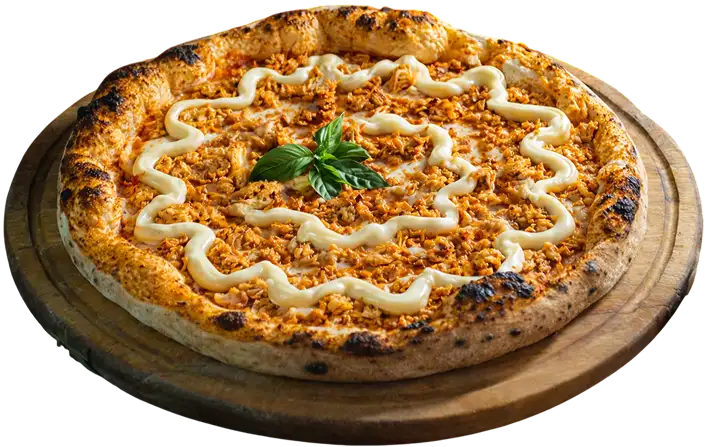
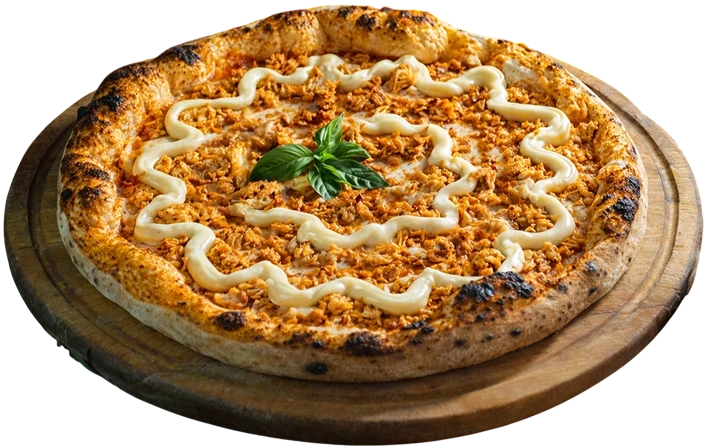
.

diff --git a/index.html b/index.html
@@ -29,8 +29,8 @@
     <link rel="preload" as="style" href="https://fonts.googleapis.com/css2?family=Damion&family=Poppins:wght@400;500;600&display=swap">
     <link rel="stylesheet" href="https://fonts.googleapis.com/css2?family=Damion&family=Poppins:wght@400;500;600&display=swap" media="print" onload="this.media='all'">
     <noscript><link rel="stylesheet" href="https://fonts.googleapis.com/css2?family=Damion&family=Poppins:wght@400;500;600&display=swap"></noscript>
-    <link rel="preload" as="image" href="assets/img/pizza-calabresa-mob.webp" media="(max-width: 768px)" fetchpriority="high">
-    <link rel="preload" as="image" href="assets/img/pizza-calabresa.webp" media="(min-width: 769px)" fetchpriority="high">
+    <link rel="preload" as="image" href="assets/img/pizza-calabresa-mob.webp?v=15" media="(max-width: 768px)" fetchpriority="high">
+    <link rel="preload" as="image" href="assets/img/pizza-calabresa.webp?v=15" media="(min-width: 769px)" fetchpriority="high">
 
     <style>
         #global-loader{position:fixed;top:0;left:0;width:100vw;height:100vh;background-color:#FAF8F5;z-index:999999;display:flex;justify-content:center;align-items:center;transition:opacity .35s ease;overflow:hidden}
@@ -140,8 +140,8 @@
                 <!-- Center Column (Absolute) -->
                 <div class="hero-center">
                     <picture>
-                        <source media="(max-width: 768px)" srcset="assets/img/pizza-calabresa-mob.webp">
-                        <img class="pizza-main-img" src="assets/img/pizza-calabresa.webp" alt="Pizza Calabresa artesanal assada na temperatura ideal" width="521" height="324" fetchpriority="high" decoding="async">
+                        <source media="(max-width: 768px)" srcset="assets/img/pizza-calabresa-mob.webp?v=15">
+                        <img class="pizza-main-img" src="assets/img/pizza-calabresa.webp?v=15" alt="Pizza Calabresa artesanal assada na temperatura ideal" width="521" height="324" fetchpriority="high" decoding="async">
                     </picture>
                     <div class="slider-dots">
                         <span class="dot active"></span>
@@ -1053,7 +1053,7 @@
     <script src="https://cdn.jsdelivr.net/npm/gsap@3.14.2/dist/CustomEase.min.js" defer></script>
 
     <script src="js/security.js?v=12" defer></script>
-    <script src="./js/slider.js?v=14" defer></script>
+    <script src="./js/slider.js?v=15" defer></script>
     <script src="./js/card-animation.js?v=12" defer></script>
     <script src="./js/title-animation.js?v=12" defer></script>
     <script src="./js/svg-line.js?v=12" defer></script>

diff --git a/js/slider.js b/js/slider.js
@@ -8,8 +8,8 @@ document.addEventListener("DOMContentLoaded", (event) => {
             title: "Calabresa",
             modalSlug: "calabresa",
             desc: "Clássica e intensa, com calabresa selecionada, queijo derretido e um toque artesanal que equilibra sabor e textura.",
-            img: "assets/img/pizza-calabresa.webp",
-            mobImg: "assets/img/pizza-calabresa-mob.webp",
+            img: "assets/img/pizza-calabresa.webp?v=15",
+            mobImg: "assets/img/pizza-calabresa-mob.webp?v=15",
             experiencia: [
                 "Levemente<br>picante",
                 "Recheio farto<br>& artesanal",
@@ -26,8 +26,8 @@ document.addEventListener("DOMContentLoaded", (event) => {
             title: "Frango c/ Requeijão Cremoso",
             modalSlug: "frango-c-catupiry",
             desc: "A união perfeita do frango desfiado suculento com a cremosidade do autêntico requeijão, assada ao ponto ideal.",
-            img: "assets/img/pizza-frango-catupiry.webp",
-            mobImg: "assets/img/pizza-frango-catupiry-mob.webp",
+            img: "assets/img/pizza-frango-catupiry.webp?v=15",
+            mobImg: "assets/img/pizza-frango-catupiry-mob.webp?v=15",
             experiencia: [
                 "Suave &<br>cremosa",
                 "Massa leve (48h)<br>& muito recheio",
@@ -44,8 +44,8 @@ document.addEventListener("DOMContentLoaded", (event) => {
             title: "La Bella",
             modalSlug: "la-bella",
             desc: "A receita exclusiva da casa: tomates maduros, folhas frescas de manjericão, queijo parmesão gratinado e alho frito crocante.",
-            img: "assets/img/pizza-la-bella.webp",
-            mobImg: "assets/img/pizza-la-bella-mob.webp",
+            img: "assets/img/pizza-la-bella.webp?v=15",
+            mobImg: "assets/img/pizza-la-bella-mob.webp?v=15",
             experiencia: [
                 "Aromática &<br>fresca",
                 "Borda crocante<br>& queijo tostado",
@@ -62,8 +62,8 @@ document.addEventListener("DOMContentLoaded", (event) => {
             title: "Parma",
             modalSlug: "parma",
             desc: "Elegância da charcutaria nobre: fatias finíssimas de presunto tipo parma, queijo parmesão ralado na hora e folhas frescas de rúcula.",
-            img: "assets/img/pizza-parma.webp",
-            mobImg: "assets/img/pizza-parma-mob.webp",
+            img: "assets/img/pizza-parma.webp?v=15",
+            mobImg: "assets/img/pizza-parma-mob.webp?v=15",
             experiencia: [
                 "Sabor nobre &<br>equilibrado",
                 "Massa fininha<br>& crocante",
